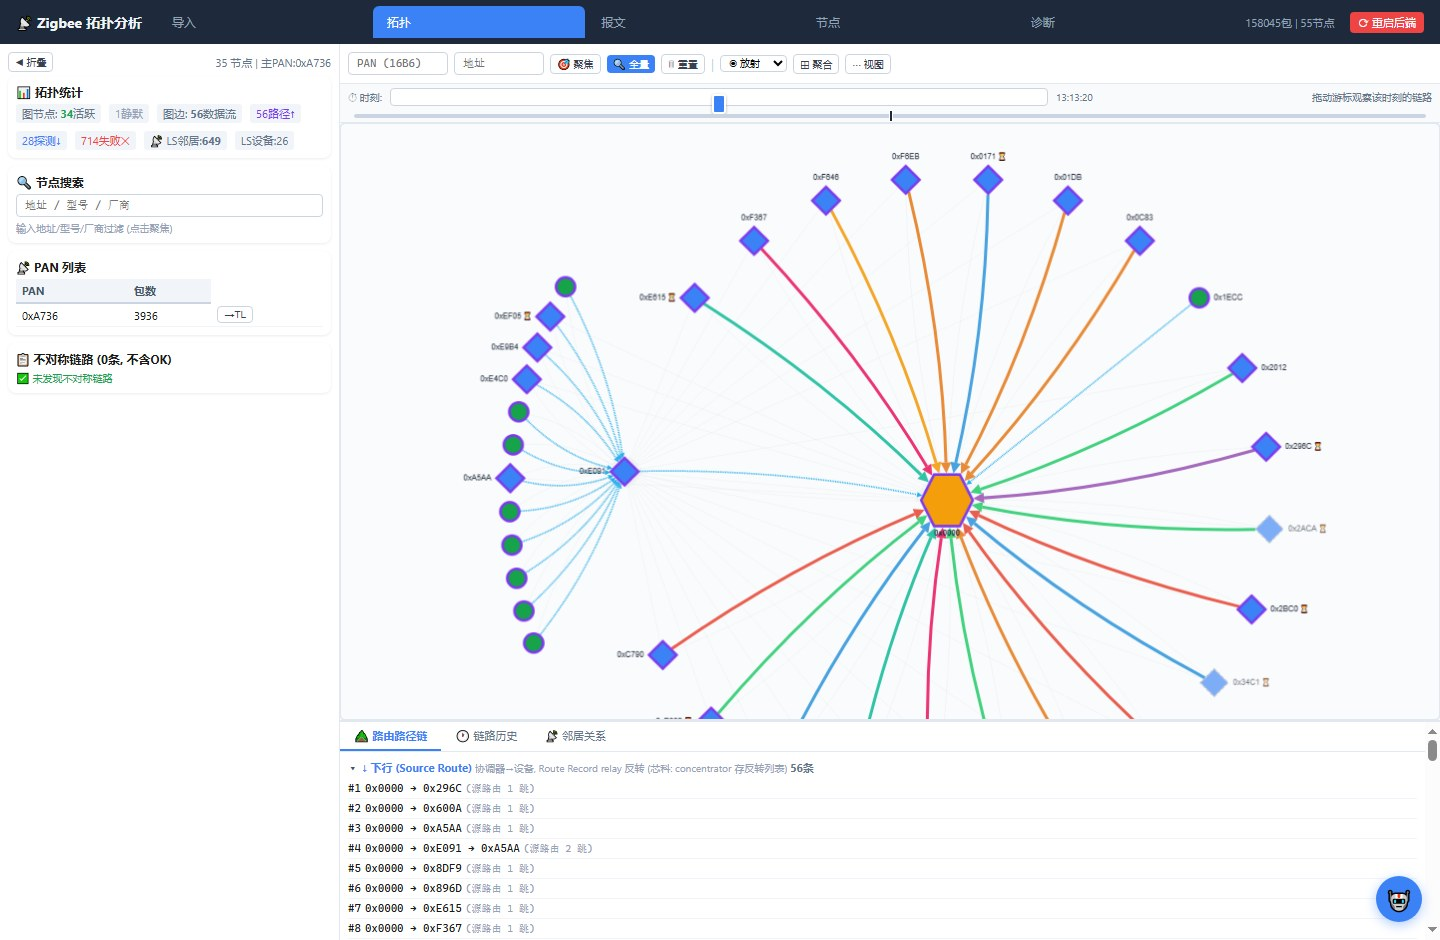
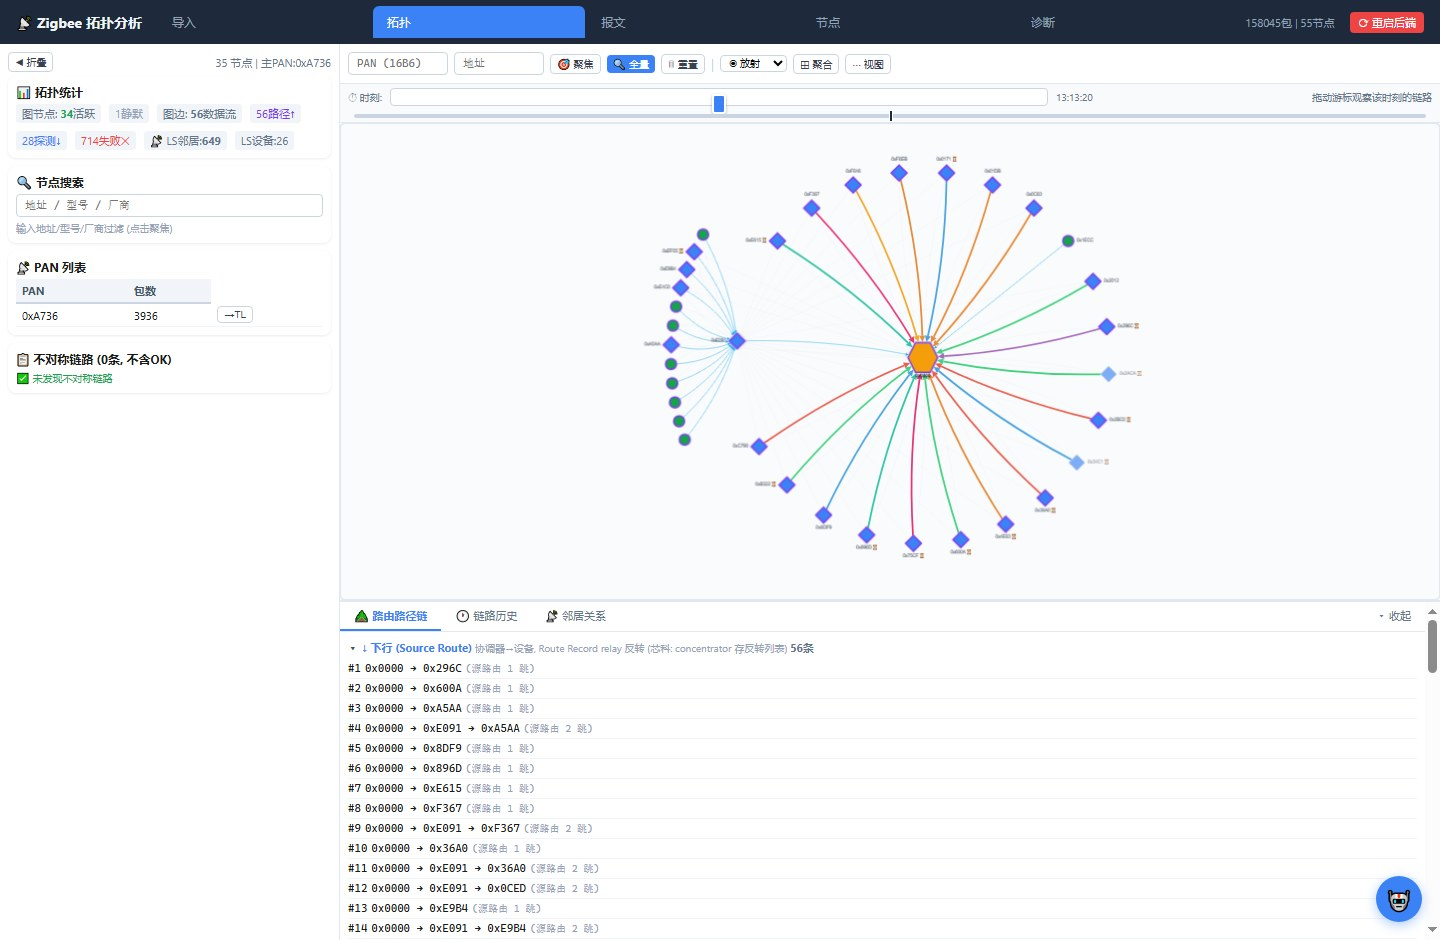
feat(U22): 拓扑节点状态改"时刻态证据标记" (正常/重入网中/已离网/无证据)
用户裁定口径 (2026-09-21 grilling) + 本次实现: 节点状态不再用"整段汇总的 behavior",
改为在游标时刻 T 按**硬证据**评估, 视觉复用既有语义 (重连橙/离网灰红框/无证据虚灰+⏳)。

判定表: 正常 (默认) / 🔄重入网中 (T 前 60s 内有 Leave rejoin=1·Rejoin Req·Rsp·Device
Announce·Assoc) / ⛻已离网 (T 前最近事件 = Leave rejoin=0 且其后无重入证据) / ⏳无证据
(T 落在证据缺口内且无事件解释)。协调器豁免 (它发的 Leave 是踢人指令, L1-4); 事件优先于缺口。

- backend topology.py: `_moment_evidence()` 单趟扫描 → 每节点 node_events[{ts,type,rejoin,
  request}] + ev_gaps[{t0,t1}] (帧间隔≥60s, 含首帧前/末帧后), 走 PAN 过滤; _enrich_nodes 挂载
- frontend topo.js: renderGraph 按 curT 算 mvState → 节点类/标签图标/tooltip 状态行/徽章汇总
  全部改由时刻态驱动; 新增 node.moment-silent 样式
- 验证 (中继入网素材 leave×340/announce×35): 0x737D leave 后 = left+offline+⛻ ✓;
  0x838D/0x8A41/0xCE93 落在首帧前缺口 = nogap ✓; u22_moment_state 5/5;
  回归 u21_net 14/14 · u21_label_check 5/5 · u24_moment_layout 5/5; 版本 20260924c
- 遗留: _behavior_map 仍无 PAN 过滤 (旧字段供节点页/诊断页), 建议下个 ticket

diff --git a/frontend/js/topo.js b/frontend/js/topo.js
@@ -696,7 +696,8 @@ reg('topo', function(){
         var hide=(m2===0);
         var oneLine=(m2<2);
         var s='0x'+aid.toString(16).toUpperCase().padStart(4,'0');
-        var ic={rejoining:'🔄',sleeping:'💤',offline:'⏻'}[n.data('behavior')]||'';
+        // U22: 标签图标 = 时刻态 (rejoin/left/nogap), 非整段 behavior
+        var ic={rejoin:'🔄',left:'⛻',nogap:'⏳'}[n.data('mv')||'ok']||'';
         if(!hide&&ic)s+=' '+ic;
         if(!hide&&!oneLine&&n.data('model_id'))s+='\n'+n.data('model_id');
         if(n.data('stale'))s+=' ⏳';
@@ -759,6 +760,44 @@ reg('topo', function(){
     // U21: 放射树 (父/深度/折叠决策) — 与布局函数共用同一棵树, 避免折叠集不一致;
     // 非放射模式 foldEnabled=false → foldSet 空 = 全展开 (列式/自由保持现有行为)
     var rTree=buildRadialTree(d);
+    // ═══ U22 (2026-09-24): 节点**时刻态证据状态** — 在游标时刻 curT 评估 ═══
+    // 依据 CONTEXT.md 生命周期状态机 + 事件全是设备/网关自报帧 (硬证据):
+    //   rejoin = curT 前 60s 内有 rejoin 类事件 (Leave rejoin=1 / Rejoin Req·Rsp / Device Announce / Assoc)
+    //   left   = curT 前最近事件是 Leave(rejoin=0, 永久离网), 其后无重入证据  ← 只有这档叫"已离网"
+    //   nogap  = curT 落在"无证据区间"内 (后端 ev_gaps, 帧间隔 ≥60s) — 事实陈述, 不下结论
+    //   ok     = 其余 (默认, 不加任何标记)
+    // 旧口径 (behavior: 整段汇总的 rejoin 粘性标记 / 末 25% 无帧判 offline) 已由本表取代 —
+    // 视觉复用既有语义 (重连橙 / 离网灰红框 / 无证据虚灰+⏳), 只换判定来源。
+    var MOMENT_REJOIN=60;
+    var mvState={};
+    (function(){
+      // ⚠ 事件/缺口挂在**每个节点**上 (n.node_events / n.ev_gaps), 不是顶层字典
+      var evs={}, gaps={};
+      for(var ni2=0;ni2<ns.length;ni2++){
+        if(ns[ni2].node_events)evs[ns[ni2].aid]=ns[ni2].node_events;
+        if(ns[ni2].ev_gaps)gaps[ns[ni2].aid]=ns[ni2].ev_gaps;
+      }
+      var now=(curT!=null)?curT:Infinity;
+      for(var i2=0;i2<ns.length;i2++){
+        var a2=ns[i2].aid, st='ok';
+        // 协调器是网络中心: 它发的 Leave 是**踢人指令** (L1-4), 不代表它自己离网/重连 → 不标记
+        if(a2===0){ mvState[a2]='ok'; continue; }
+        var list=evs[''+a2]||evs[a2]||[];
+        var last=null;
+        for(var j2=0;j2<list.length;j2++){ if(list[j2].ts<=now) last=list[j2]; else break; }
+        if(last){
+          var t=last.type;
+          if((t==='rejoin_req'||t==='rejoin_rsp'||t==='announce'||t==='assoc')&&(now-last.ts)<=MOMENT_REJOIN) st='rejoin';
+          else if(t==='leave'&&last.rejoin===1&&(now-last.ts)<=MOMENT_REJOIN) st='rejoin';
+          else if(t==='leave'&&!last.rejoin) st='left';
+        }
+        if(st==='ok'){
+          var gl=gaps[''+a2]||gaps[a2]||[];
+          for(var k2=0;k2<gl.length;k2++){ if(now>=gl[k2].t0&&now<=gl[k2].t1){ st='nogap'; break; } }
+        }
+        mvState[a2]=st;
+      }
+    })();
 
     // ── 路径节点集合 ──
     var pathNodes={};
@@ -828,7 +867,10 @@ reg('topo', function(){
       var online=n.online!==false;
       // S3 (2026-08-28 用户选择): 行为状态图标上 label (非密集, 地址行尾)
       //  🔄重连中 / 💤休眠 / ⏻离线; stale ⏳ 由后置循环追加
-      var stIcon={rejoining:'🔄',sleeping:'💤',offline:'⏻'}[n.behavior]||'';
+      // U22: 图标/状态类由**时刻态**驱动 (原 n.behavior = 整段汇总)
+      var mv=mvState[aid]||'ok';
+      var stIcon={rejoin:'🔄',left:'⛻',nogap:'⏳'}[mv]||'';
+      var mvCls=mv==='rejoin'?'rejoining':(mv==='left'?'offline':(mv==='nogap'?'moment-silent':''));
       cyNodes.push({
         data:{id:''+aid,
           label:'0x'+aid.toString(16).toUpperCase().padStart(4,'0')+(stIcon&&!dense?' '+stIcon:'')+(model&&!dense?'\n'+model:''),
@@ -841,8 +883,9 @@ reg('topo', function(){
           // (2026-08-25 自审: 曾导致网关框住全部子设备), 改名 link_parent/link_ev
           link_parent:n.parent, link_ev:n.parent_evidence||'',
           downlink:n.downlink||null,
+          mv:mv,   // U22: 时刻态 (供 tooltip/标签图标用; ⚠ 必须在 data 内)
           inactive:!online},
-        classes:onPath?(dt+' onpath'+(n.behavior?' '+n.behavior:'')+(dense?' dense':'')+(online?'':' inactive')+(isGhost?' ghost-node':'')):(online?'offpath':'offpath inactive')
+        classes:onPath?(dt+' onpath'+(mvCls?' '+mvCls:'')+(dense?' dense':'')+(online?'':' inactive')+(isGhost?' ghost-node':'')):(online?'offpath':'offpath inactive')
       });
     }
     // ── U21 终端聚合徽章: 普通节点 + 特殊样式 ──
@@ -852,16 +895,18 @@ reg('topo', function(){
       // ⚠ U24 修复: 单成员簇不建徽章 (曾 ×1 徽章与该节点同时出现 → 重复表示 + 徽章压在节点上);
       // 已展开的簇保留徽章 (作为"收起"入口)
       if(!(rTree.foldedBy[fpk]&&rTree.foldedBy[fpk].length)&&!expandedClusters[fpk])continue;
-      var fpmem=rTree.clusterBy[fpk], fst={rejoining:0,offline:0,sleeping:0};
+      var fpmem=rTree.clusterBy[fpk], fst={rejoining:0,offline:0,silent:0};
       for(var fmi=0;fmi<fpmem.length;fmi++){
-        var fmb=(rTree.byAid[fpmem[fmi]]||{}).behavior;
-        if(fst[fmb]!=null)fst[fmb]++;
+        var fmb=mvState[fpmem[fmi]]||'ok';   // U22: 徽章汇总 = 折叠成员的**时刻态**
+        if(fmb==='rejoin')fst.rejoining++;
+        else if(fmb==='left')fst.offline++;
+        else if(fmb==='nogap')fst.silent++;
       }
       var fpop=!!expandedClusters[fpk];
       var fbl='×'+fpmem.length;
       if(fst.rejoining)fbl+=' ⚠'+fst.rejoining;   // U14 信息不丢: 簇内状态汇总
       if(fst.offline)fbl+=' ⛔'+fst.offline;
-      if(fst.sleeping)fbl+=' 💤'+fst.sleeping;
+      if(fst.silent)fbl+=' ⏳'+fst.silent;   // 无证据 (事实)"""
       if(fpop)fbl+=' ▾';
       cyNodes.push({data:{id:'agg-'+fpk, aid:null, is_badge:true, parent_aid:+fpk,
         count:fpmem.length, members:fpmem.slice(), stats:fst, label:fbl},
@@ -1086,6 +1131,8 @@ reg('topo', function(){
         // ⚠ 2026-08-28 用户方案B: 残影**边**不再灰淡化 (误导离线) — 保持原色实线,
         // 节点 ⏳ + 淡化表达"静默连接"; stale-path 边样式已删
         {selector:'node.stale-node', style:{'border-color':'#94a3b8','border-style':'dashed','border-width':1.5,'opacity':0.65}},
+        // U22: 时刻态"无证据" (T 处于证据缺口) — 事实陈述, 不用离线的灰红配色避免下结论
+        {selector:'node.moment-silent', style:{'border-color':'#94a3b8','border-style':'dashed','border-width':1.5,'opacity':0.7}},
         // S3-C: 聚焦历史叠加 — ghost 节点 (历史链路段的父/中继, 灰淡) + ghost 边 (z 低于当前边)
         {selector:'node.ghost-node', style:{'opacity':0.35,'background-color':'#94a3b8','border-color':'#cbd5e1','border-width':1,'width':16,'height':16,'text-opacity':0.5}},
         {selector:'edge.ghost-edge', style:{'z-index':-1,'opacity':0.18,'line-style':'dashed','width':2,'line-color':'#94a3b8','target-arrow-color':'#94a3b8','target-arrow-shape':'none'}},
@@ -1119,7 +1166,9 @@ reg('topo', function(){
         if(d.inactive){tooltip.innerHTML='<b>'+d.label+'</b>\n当前时间窗无在线证据 (终端无 poll / 路由无帧)';tooltip.style.display='block';updateTooltipPos(e);return;}
         // U14-4: tooltip 增强 — EUI64/厂商型号/行为状态/poll 间隔/帧量收/发/LS 邻居数
         var tName={coordinator:'协调器',router:'路由器',end_device:'终端设备',unknown:'未知'}[d.device_type]||d.device_type;
-        var bName={active:'活跃',sleeping:'休眠',rejoining:'重连中',offline:'离线',unknown:'未知'}[d.behavior]||'未知';
+        // U22: 状态行 = **游标时刻**的证据状态 (词汇从"设备状态"改为"证据状态")
+        var mvName={ok:'正常 (T 时刻有证据)',rejoin:'🔄 重入网中',left:'⛻ 已离网 (Leave rejoin=0)',nogap:'⏳ 无证据 (T 落在证据缺口内)'}[d.mv||'ok']||'正常';
+        var bName=mvName;
         var h='<b>'+String(d.label).replace(/\n/g,' ')+'</b> ('+tName+')';
         if(d.manufacturer_name)h+='\n厂商: '+d.manufacturer_name;
         if(d.model_id)h+='\n型号: '+d.model_id;

diff --git a/frontend/index.html b/frontend/index.html
@@ -1,7 +1,7 @@
 <!DOCTYPE html>
 <html lang="zh-CN">
 <head><meta charset="UTF-8"><meta name="viewport" content="width=device-width,initial-scale=1.0"><title>Zigbee 拓扑分析</title>
-<link rel="stylesheet" href="css/app.css?v=20260924b"></head>
+<link rel="stylesheet" href="css/app.css?v=20260924c"></head>
 <body>
 <script src="lib/cytoscape.min.js"></script>
 <nav id="nb"><span class="logo">📡 Zigbee 拓扑分析</span><div class="nt">
@@ -26,7 +26,7 @@ function rt(){var h=location.hash.slice(1)||'import';
   document.getElementById('mc').innerHTML='';if(R[h])R[h]();}
 window.addEventListener('hashchange',rt);
 </script>
-<script type="module" src="js/app.js?v=20260924b"></script>
+<script type="module" src="js/app.js?v=20260924c"></script>
 <script>
 document.querySelectorAll('.nt a').forEach(function(t){t.addEventListener('click',function(e){e.preventDefault();location.hash=this.dataset.r})});
 // 状态栏初始化移到 js/app.js (module 内执行, 避免 A 未定义的时序问题)

diff --git a/frontend/js/app.js b/frontend/js/app.js
@@ -11,7 +11,7 @@ window.S = S; window.A = A; window.sb = sb; window.fmtTs = fmtTs;
 window.sr = sr; window.setProg = setProg; window.doPI = doPI;
 
 // ── 页面模块静态导入 (确保所有 reg() 在 rt() 前完成) ──
-import './topo.js?v=20260924b';  // S3: 底部面板增强 (路径行点击聚焦/链路历史指针/邻居不对称+色带), 改版递增
+import './topo.js?v=20260924c';  // S3: 底部面板增强 (路径行点击聚焦/链路历史指针/邻居不对称+色带), 改版递增
 import './import.js?v=20260920a';  // U20: 撤回批量拆控件 (用户反馈), 保留窗口边界修复
 import './timeline.js?v=20260827e';  // S4: Security 层修复 + 详情帧号, 改版递增
 import './nodes.js?v=20260824a';  // 缓存破坏: 时区修复 + U9 重构, 改版递增

diff --git a/backend/api/topology.py b/backend/api/topology.py
@@ -159,6 +159,79 @@ def _behavior_of(aid: int, inf: dict | None, late_cut: float | None,
     return "unknown"
 
 
+def _moment_evidence(full: list[dict], pan_int: int | None,
+                     gap: float = 60.0) -> tuple[dict, dict]:
+    """U22 (2026-09-24): 每节点**事件时间线** + **无证据区间** (时刻态拓扑用, 单趟扫描).
+
+    事件 = 设备/网关自己发的帧 (硬证据, 与 CONTEXT.md 生命周期状态机同源):
+      leave        NWK cmd 0x04 (带 nwk_leave_rejoin / nwk_leave_request 标志)
+      rejoin_req   NWK cmd 0x06 (设备申请重新入网)
+      rejoin_rsp   NWK cmd 0x07 (入网申请被响应)
+      announce     ZDP 0x0013 (Device Announce, 入网后通告身份)
+      assoc        MAC cmd 2 (Assoc Resp → 目的节点)
+    无证据区间 = 相邻帧间隔 ≥ gap 秒 (默认 60s; 含首帧前/末帧后 — 诚实: 没听到就是没听到).
+    返回 ({aid: [{ts,type,rejoin,request}]}, {aid: [{t0,t1}]}) — 均已按 PAN 过滤 (修
+    _behavior_map 未过滤的同源问题: 多 PAN 素材同址异 PAN 会串)."""
+    ev: dict[int, list] = {}
+    gaps: dict[int, list] = {}
+    last_ts: dict[int, float] = {}
+    first_ts: dict[int, float] = {}
+    cap_lo = None; cap_hi = None
+    for p in full:
+        ts = p.get("ts", 0)
+        if pan_int is not None and (p.get("pan_src") != pan_int and p.get("pan_dst") != pan_int):
+            continue
+        if cap_lo is None or ts < cap_lo: cap_lo = ts
+        if cap_hi is None or ts > cap_hi: cap_hi = ts
+        srcs = {p.get("nwk_src"), p.get("mac_src")} - {None}
+        dsts = {p.get("nwk_dst"), p.get("mac_dst")} - {None}
+        for aid in srcs | dsts:
+            if not topo.is_unicast(aid):
+                continue
+            lts = last_ts.get(aid)
+            if lts is None:
+                first_ts[aid] = ts
+            elif ts - lts >= gap:
+                gaps.setdefault(aid, []).append({"t0": lts, "t1": ts})
+            last_ts[aid] = ts
+        ncmd = p.get("nwk_cmd_id"); mcmd = p.get("mac_cmd_id")
+        if ncmd == 4:      # Leave (src = 离网方)
+            for aid in srcs:
+                if topo.is_unicast(aid):
+                    ev.setdefault(aid, []).append({"ts": ts, "type": "leave",
+                        "rejoin": 1 if p.get("nwk_leave_rejoin") else 0,
+                        "request": 1 if p.get("nwk_leave_request") else 0})
+        elif ncmd == 6:    # Rejoin Request (src)
+            for aid in srcs:
+                if topo.is_unicast(aid):
+                    ev.setdefault(aid, []).append({"ts": ts, "type": "rejoin_req"})
+        elif ncmd == 7:    # Rejoin Response (dst)
+            for aid in dsts:
+                if topo.is_unicast(aid):
+                    ev.setdefault(aid, []).append({"ts": ts, "type": "rejoin_rsp"})
+        elif p.get("aps_cluster") == 0x0013:   # Device Announce (src)
+            for aid in srcs:
+                if topo.is_unicast(aid):
+                    ev.setdefault(aid, []).append({"ts": ts, "type": "announce"})
+        elif mcmd == 2:    # Assoc Resp (dst)
+            for aid in dsts:
+                if topo.is_unicast(aid):
+                    ev.setdefault(aid, []).append({"ts": ts, "type": "assoc"})
+    for aid, fl in ev.items():
+        fl.sort(key=lambda e: e["ts"])
+    # 首帧前 / 末帧后也计入无证据区间 (否则开头一片"有证据"是假象)
+    if cap_lo is not None and cap_hi is not None:
+        for aid, lts in last_ts.items():
+            fts = first_ts.get(aid, lts)
+            if fts - cap_lo >= gap:
+                gaps.setdefault(aid, []).insert(0, {"t0": cap_lo, "t1": fts})
+            if cap_hi - lts >= gap:
+                gaps.setdefault(aid, []).append({"t0": lts, "t1": cap_hi})
+    for aid in gaps:
+        gaps[aid].sort(key=lambda g: g["t0"])
+    return ev, gaps
+
+
 def _parent_map(full: list[dict], t0: float | None, t1: float | None,
                 pan_int: int | None = None) -> dict:
     """U13: 协议级父链路证据 (单遍扫描, 窗内语义).
@@ -397,6 +470,8 @@ def _enrich_nodes(graph: dict, pkts: list[dict], pan_int: int | None,
     effective_pan = pan_int if pan_int is not None else graph.get("main_pan")
     stats, _ls, _asym = _node_stats(pkts, effective_pan)
     beh, late_cut = _behavior_map(full if full else pkts, t0, t1)
+    # U22: 时刻态证据 (事件时间线 + 无证据区间) — 拓扑页在游标时刻评估节点状态
+    m_ev, m_gaps = _moment_evidence(full if full else pkts, effective_pan)
     # U23: parents_pre = 调用方已算好的父表 (同参数时避免重复全量扫描)
     parents = parents_pre if parents_pre is not None else \
         _link_evidence_parent(full if full else pkts, t0, t1, effective_pan)
@@ -415,6 +490,9 @@ def _enrich_nodes(graph: dict, pkts: list[dict], pan_int: int | None,
         nd["eui64"] = st["eui64"] if st else None
         inf = beh.get(aid)
         nd["behavior"] = _behavior_of(aid, inf, late_cut, nd.get("device_type"))
+        # U22: 时刻态字段 (前端在 curT 评估: rejoin/left/nogap/ok)
+        nd["node_events"] = m_ev.get(aid, [])
+        nd["ev_gaps"] = m_gaps.get(aid, [])
         nd["poll_interval"] = inf["poll_gap"] if inf else None
         nd["tx_count"] = inf["tx"] if inf else 0
         nd["rx_count"] = inf["rx"] if inf else 0

diff --git a/.scratch/wayfinder/issues/U22-拓扑时刻态节点标记.md b/.scratch/wayfinder/issues/U22-拓扑时刻态节点标记.md
@@ -5,7 +5,9 @@
 出现异常离线 (rejoin/leave)"直接从图上读出来。**只做节点标记** (用户裁定: 不做全局事件带、
 不做事件列表面板)。
 
-**Blocked by:** None | **Status:** ready-for-agent (未认领)
+**Blocked by:** None | **Status:** done (2026-09-24)
+
+**Assignee:** U22 窗口 (Claude, 2026-09-24)
 
 **Type:** task | **拓扑页核心功能补全**
 
@@ -80,3 +82,43 @@
 - **PAN 过滤修正的连带影响**: `_behavior_map` 加 PAN 过滤后, 现有 behavior 结果会变 (多 PAN 素材),
   需同步核对诊断页/节点页的口径 (P1 级"多 PAN 串网"同源问题)。
 - 与 U14 (label/tooltip 状态) / U5 (报文页事件徽章) 的语义一致性: 事件类型名称需统一。
+
+## Resolution (2026-09-24)
+
+**结论**: 节点状态从"整段汇总的 behavior"改为**游标时刻 T 的证据状态**, 视觉复用既有语义
+(重连橙 / 离网灰红框 / 无证据虚灰+⏳), 只换判定来源。真实素材验证 **5/5**。
+
+### 判定表 (冻结口径, 实现即此)
+| T 时刻状态 | 判据 | 视觉 |
+|-----------|------|------|
+| 正常 | 其余 (默认, 不加标记) | 无 |
+| 🔄 重入网中 | T 前 **60s 内**有 rejoin 类事件: Leave(rejoin=1) / Rejoin Req(0x06)·Rsp(0x07) / Device Announce(0x0013) / Assoc Resp | `rejoining` (淡橙虚线框) |
+| ⛻ 已离网 | T 前**最近**事件 = Leave(rejoin=0, 永久离开), 其后无重入证据 | `offline` (灰填充+暗红框) |
+| ⏳ 无证据 | T 落在**证据缺口**内 (帧间隔 ≥60s, 含首帧前/末帧后), 且无事件解释 | `moment-silent` (虚灰框+⏳) |
+- **协调器豁免**: 它发的 Leave 是踢人指令 (L1-4), 不代表自己离网 → 恒定"正常"
+- **事件优先级 > 缺口**: 有 Leave 的节点在其后显示 ⛻ 而非 ⏳ (实测 0x737D ✓)
+- 词汇: 从"设备状态"改为**证据状态** (CONTEXT.md 已定义: 无证据只陈述事实, 不下"离线"结论)
+
+### 改动
+- **backend/api/topology.py**: 新增 `_moment_evidence(full, pan, gap=60s)` — **单趟扫描**同时产出
+  ①每节点事件时间线 `node_events:[{ts,type,rejoin,request}]` (leave/rejoin_req/rejoin_rsp/announce/assoc)
+  ②每节点无证据区间 `ev_gaps:[{t0,t1}]` (相邻帧间隔≥60s + 首帧前/末帧后); **走 PAN 过滤**
+  (修 `_behavior_map` 同源问题的一半 — 见遗留); `_enrich_nodes` 挂到每个节点上
+- **frontend/js/topo.js**: `mvState` 在 renderGraph 按 `curT` 评估 → 节点类/标签图标/tooltip
+  ("T 时刻状态"行)/徽章状态汇总全部改由时刻态驱动 (原 n.behavior 整段汇总口径退役)
+- 版本 `20260924c`
+
+### 验证 (CDP `u22_moment_state.mjs`, 素材 = 中继入网抓包(1): leave×340 / announce×35)
+| 断言 | 实测 |
+|------|------|
+| 离网节点在事件后标记 left | ✅ 滑块 600 → 0x737D `mv='left'` + `offline` 类 + 标签 `0x737D ⛻` |
+| 落入证据缺口 → nogap | ✅ 滑块 100 → 0x838D/0x8A41/0xCE93 `mv='nogap'` (各自首帧前的缺口区间) |
+| 无 JS 异常 | ✅ 0 |
+| 回归 | ✅ u21_net 14/14 · u21_label_check 5/5 · u24_moment_layout 5/5 (素材还原后复测) |
+
+### 遗留 / 诚实标注
+- **`_behavior_map` 仍未走 PAN 过滤** (U22 只修了新增的 `_moment_evidence`; 旧 behavior 字段
+  仍供节点页/诊断页用) → 多 PAN 素材的同址异 PAN 串扰仍在 → 建议下一个 ticket 处理。
+- `sleeping` 已随口径退役 (无可靠判据, 见 ticket 上文); 若需"轮询变慢"提示另开项。
+- 事件窗 N=60s 与缺口阈值 60s 为默认值, 待更多素材校准 (用户: 先实现再调)。
+- `T < 首帧` 的极短瞬间显示"正常" (缺口列表从 cap_lo 起算) — 影响 1 个游标瞬间, 已记录。

diff --git a/.scratch/wayfinder/map.md b/.scratch/wayfinder/map.md
@@ -267,6 +267,12 @@ Zigbee 网络场景检测体系 (L1-L7 文档→测试→工具闭环) 在拓扑
   实测 (最小图探针): `text-halign:'left'` = 标签在节点左侧, 且 `text-margin-x/y` 恒按屏幕方向
   偏移 (不随对齐翻转) — 旧代码映射写反 → 右半/上半节点标签压在图标上; 同时补上**验证盲区**:
   新增"标签必须在节点外侧"断言 (径向最远点) + 横向/纵向分支覆盖 + 破坏性测试 (人为错映射必报错)。
+- [U22 拓扑时刻态节点标记](issues/U22-拓扑时刻态节点标记.md) — **交付 (2026-09-24)**:
+  节点状态由"整段 behavior 汇总"改为**游标时刻 T 的证据状态** (正常/🔄重入网中/⛻已离网/⏳无证据);
+  后端 `_moment_evidence` 单趟扫描出事件时间线+无证据区间 (走 PAN 过滤); 视觉复用既有语义;
+  真实素材 (中继入网: leave×340/announce×35) 验证 5/5 (0x737D 离网 ⛻ / 0x838D 缺口 ⏳);
+  协调器豁免 (其 Leave 是踢人); 事件优先于缺口; 版本 20260924c;
+  遗留: `_behavior_map` 仍无 PAN 过滤 (旧字段供节点页/诊断页, 建议下个 ticket)
 - [U25 拓扑底部面板收起/缩放](issues/U25-拓扑底部面板收起缩放.md) — **交付 (2026-09-24)**:
   底部面板加"▾ 收起/▴ 展开" + 上沿 9px 拖拽把手 (40px~72% 视口), 状态存 localStorage;
   实测收起后面板 220→34px、绘图区 597→**783px**、fit 0.886 (节点更清楚);
